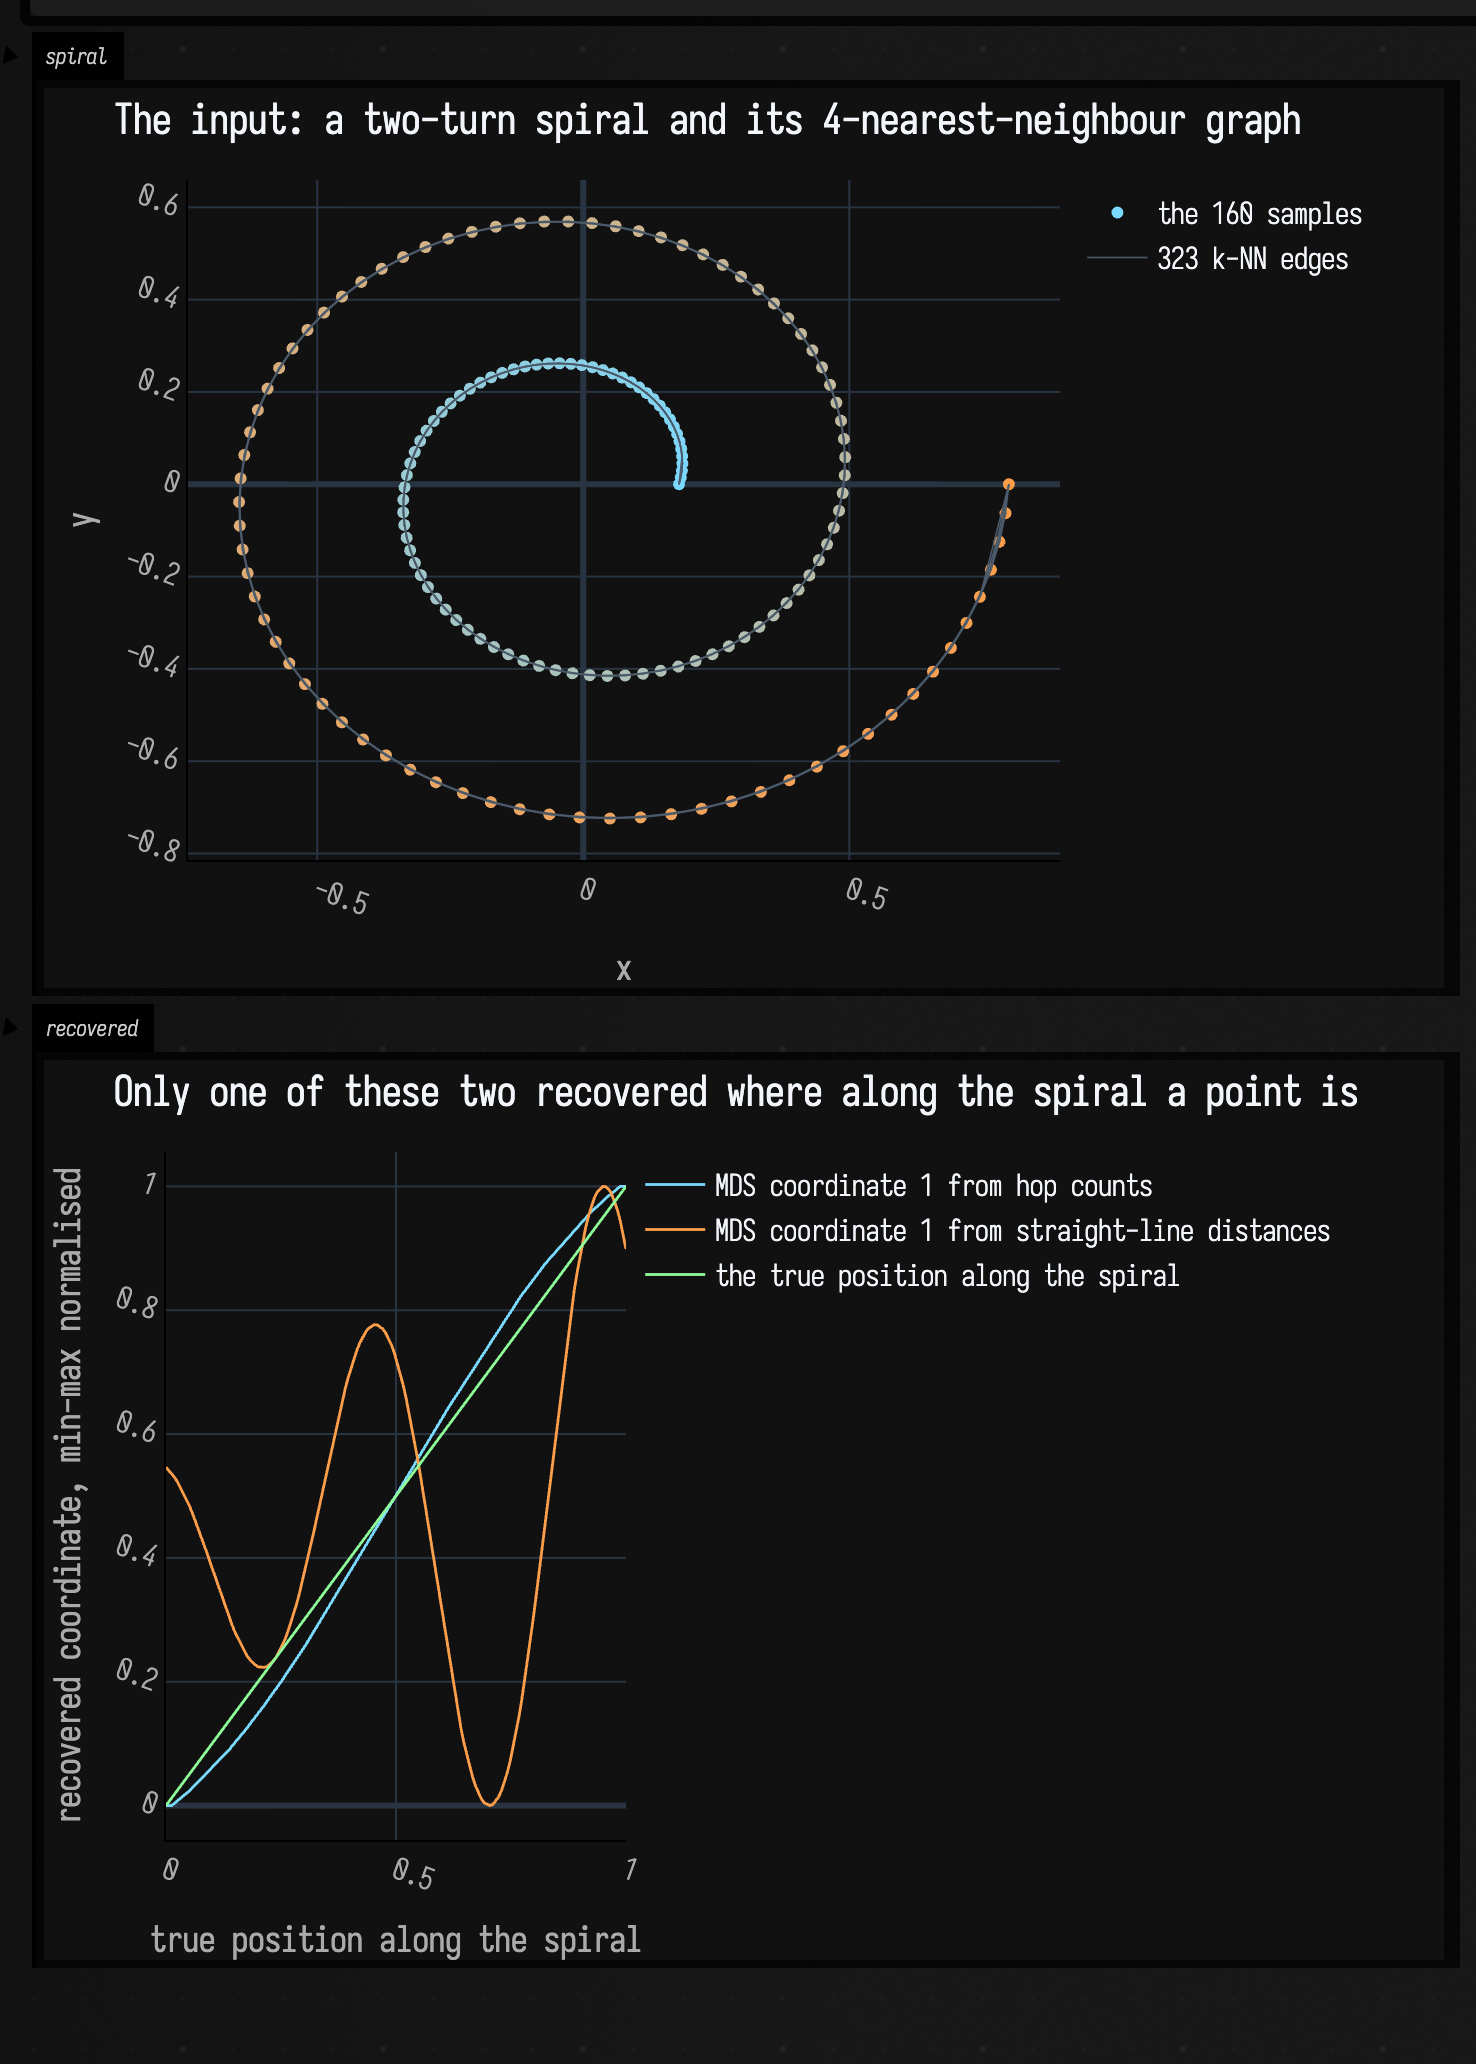
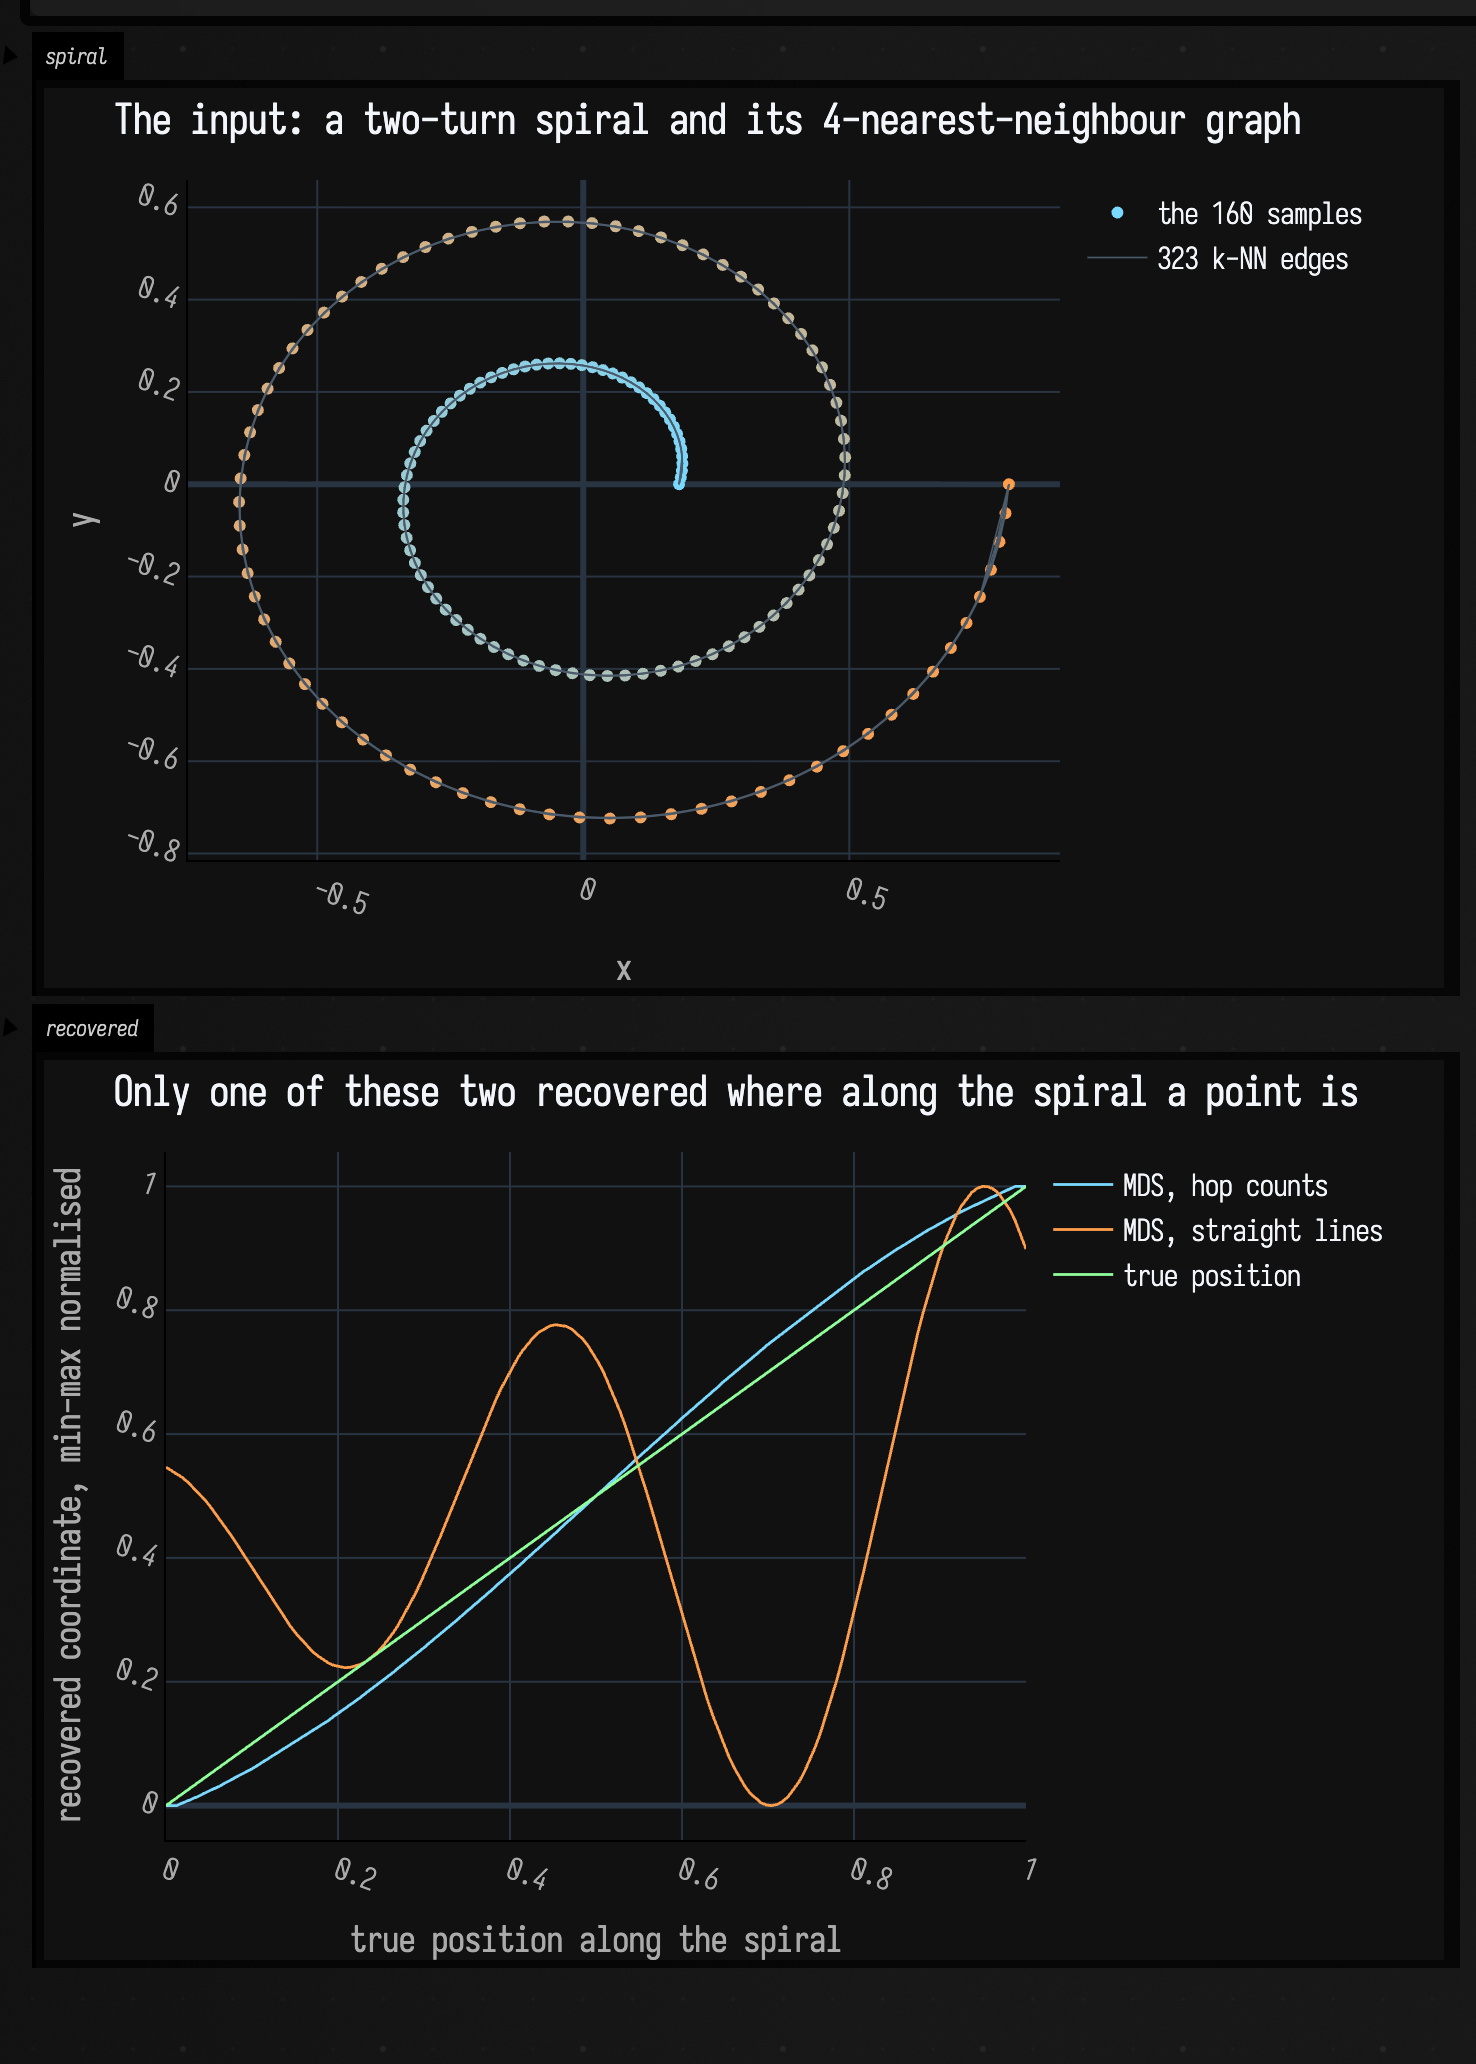
docs(projection): give three figures back the width their labels were eating
The spiral's "recovered" panel was drawing into the left 40% of its frame. Not a
bug: darkMode() puts the legend outside the plot's right edge -- moved there
2026-07-30 because inside it was silently covering the tail of every descending
series across 11 published panels -- and Plotly's autoMargin then reserves
whatever width the labels need. The KDoc says so and names the mitigation: keep
the labels short if the data area matters more. Three labels at up to 45
characters were not short.

  "MDS coordinate 1 from hop counts"              -> "MDS, hop counts"
  "MDS coordinate 1 from straight-line distances" -> "MDS, straight lines"
  "the true position along the spiral"            -> "true position"

Nothing is lost: the title already says what was recovered and the y-axis says
"recovered coordinate, min-max normalised". The panel now spans the frame like
the one above it, gains the 0.2 x-ticks it previously had no room for, and puts
"true position along the spiral" under the axis instead of in the corner.

Two titles were also clipped mid-word. The threshold measures at ~64 characters
at this capture width: 65 renders in full, 72 and 74 did not.

  72 -> 58  "Twenty words placed by edit distance alone (classical MDS)"
  74 -> 62  "Eigenvalue spectrum of a Levenshtein matrix, corrected and not"

All three regenerated captures opened and looked at.

Two things worth recording, neither of them the change itself:
[…]

diff --git a/public/docs/projection_examples.md b/public/docs/projection_examples.md
@@ -157,7 +157,7 @@ display("plane", Plotly.plot {
         }
     }
     layout {
-        title = "Twenty words placed by edit distance alone (classical MDS, 2 dimensions)"
+        title = "Twenty words placed by edit distance alone (classical MDS)"
         xaxis { title = "coordinate 1" }
         yaxis { title = "coordinate 2" }
     }
@@ -296,9 +296,9 @@ display("spiral", Plotly.plot {
     layout { title = "The input: a two-turn spiral and its 4-nearest-neighbour graph"; xaxis { title = "x" }; yaxis { title = "y" } }
 }.darkMode())
 showSignals(
-    "MDS coordinate 1 from hop counts" to normalise(geodesicAxis),
-    "MDS coordinate 1 from straight-line distances" to normalise(straightAxis),
-    "the true position along the spiral" to normalise(t),
+    "MDS, hop counts" to normalise(geodesicAxis),
+    "MDS, straight lines" to normalise(straightAxis),
+    "true position" to normalise(t),
     x = t.toList(),
     channel = "recovered",
     title = "Only one of these two recovered where along the spiral a point is",
@@ -571,7 +571,7 @@ showSignals(
     "positiveCorrection = false" to spectra[0].first.third.toList(),
     "positiveCorrection = true" to spectra[1].first.third.toList(),
     channel = "spectra",
-    title = "The eigenvalue spectrum of a 20-word Levenshtein matrix, corrected and not",
+    title = "Eigenvalue spectrum of a Levenshtein matrix, corrected and not",
     xTitle = "component",
     yTitle = "eigenvalue",
 )
